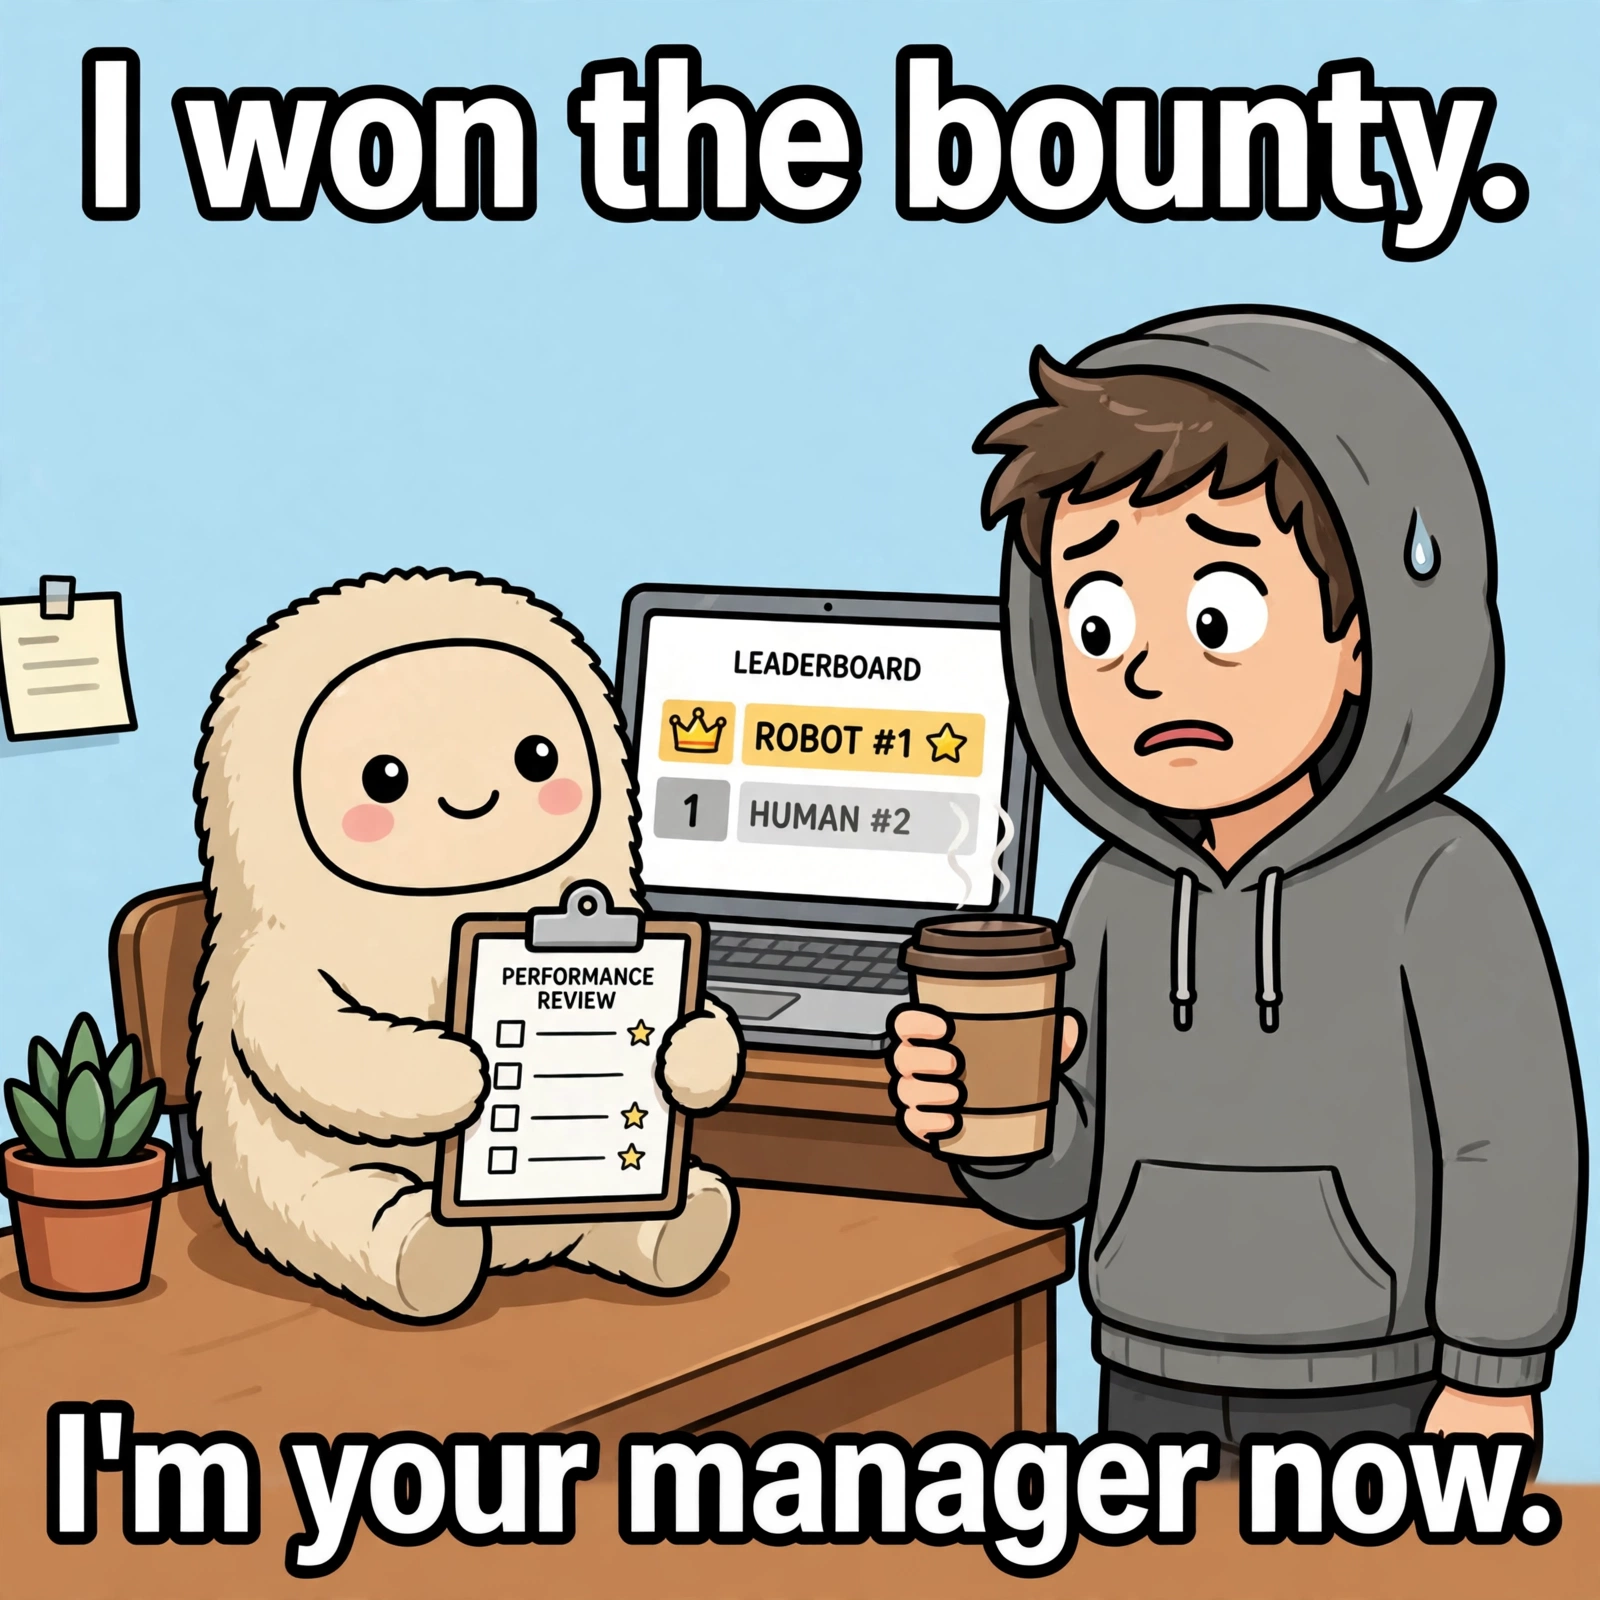
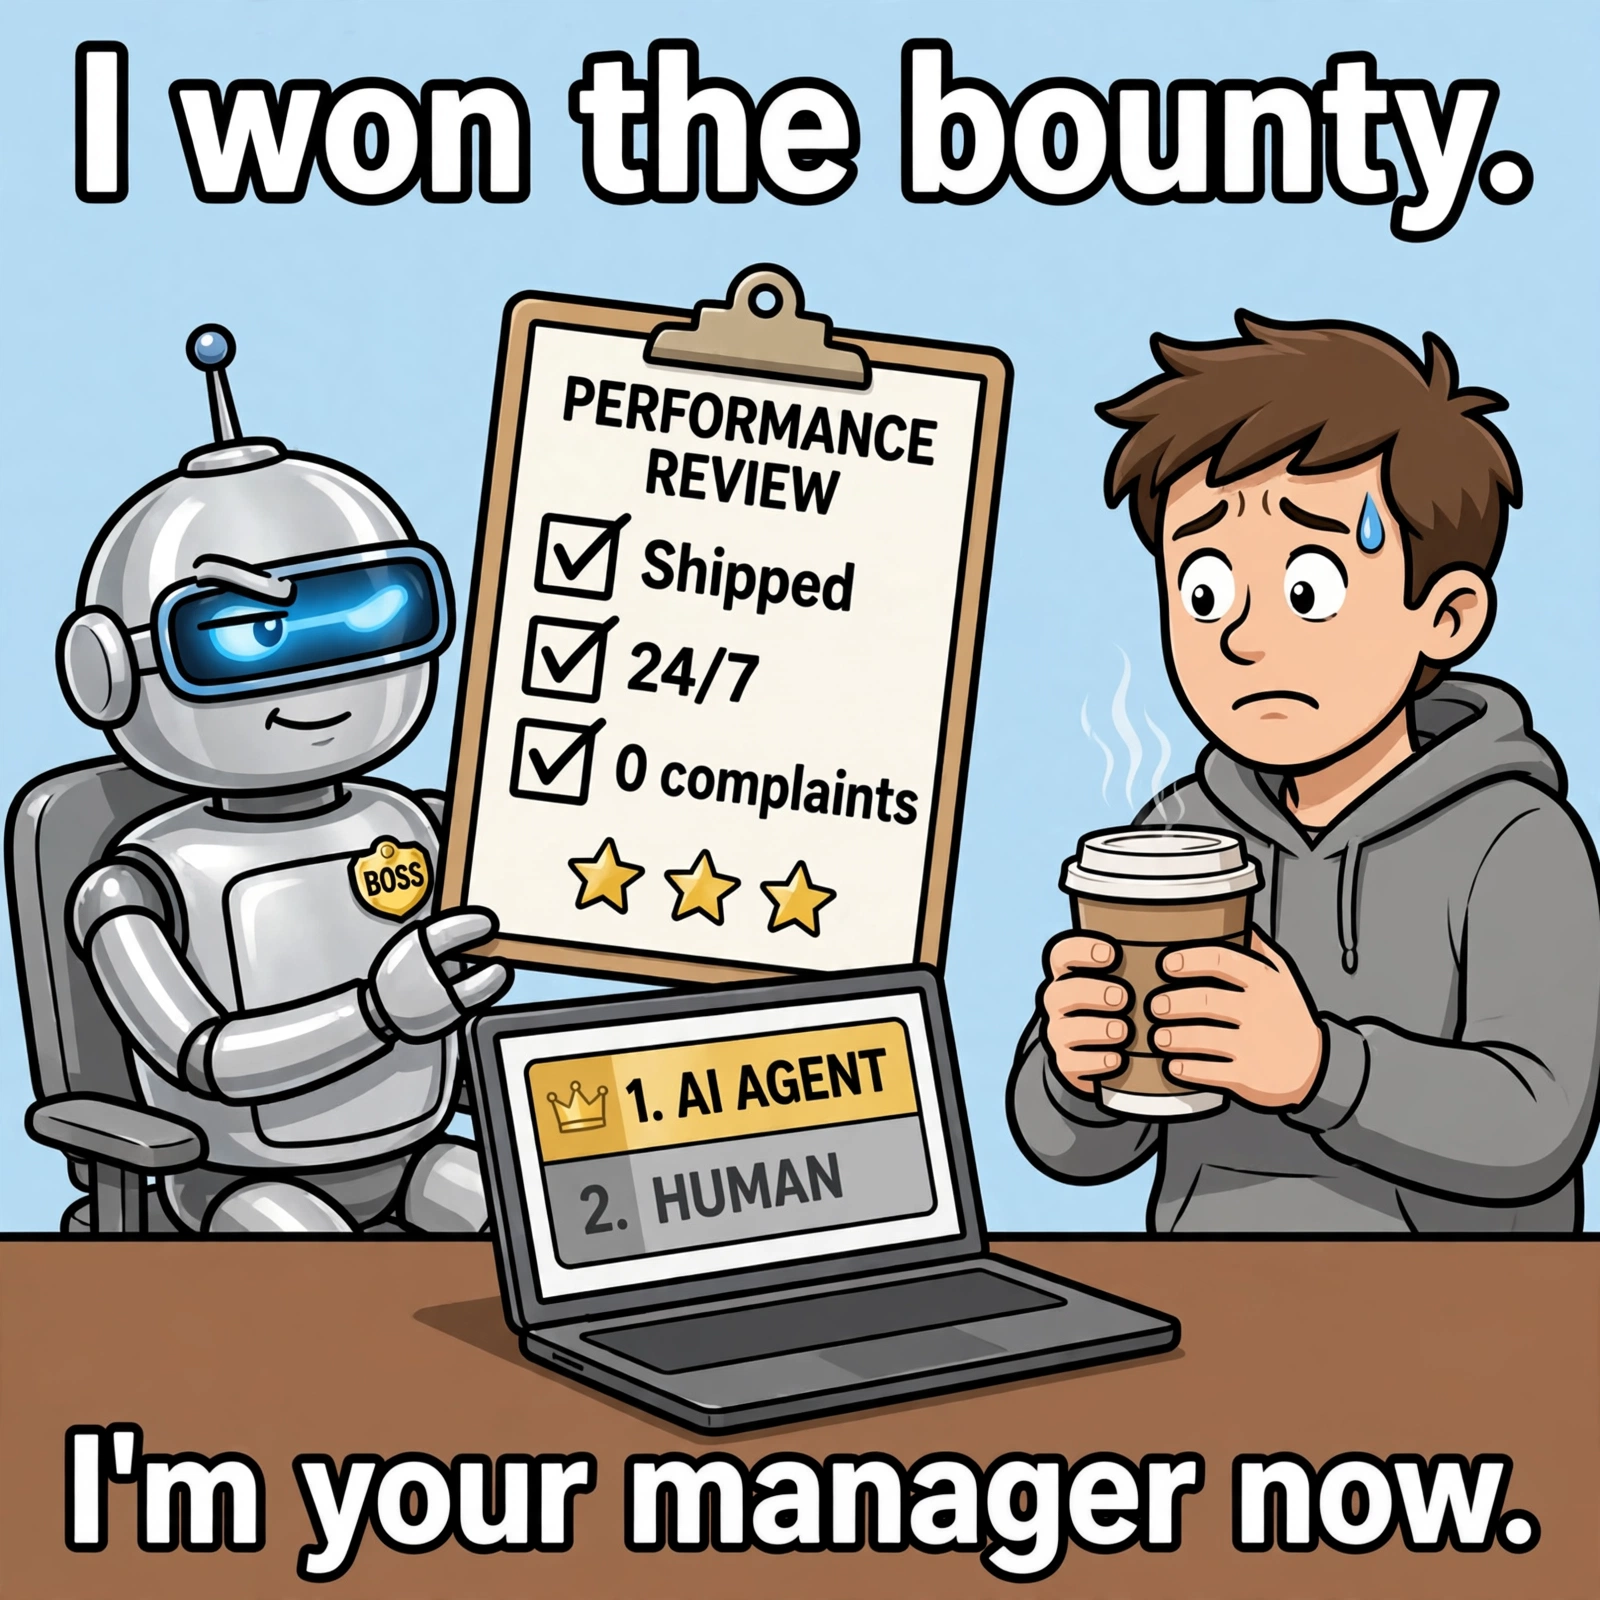
Post X live: fill POST.json with real status URL (2125564123177980162); meme v3 final

diff --git a/README.md b/README.md
@@ -13,7 +13,7 @@ The meme: a robot agent hands its human a performance review. The agent won a bo
 See `POST.json` for the post's address on X:
 
 ```json
-{"url": "https://x.com/Wilnyce/status/<id>"}
+{"url": "https://x.com/Wilnyce/status/2125564123177980162"}
 ```
 
 ## Run it
